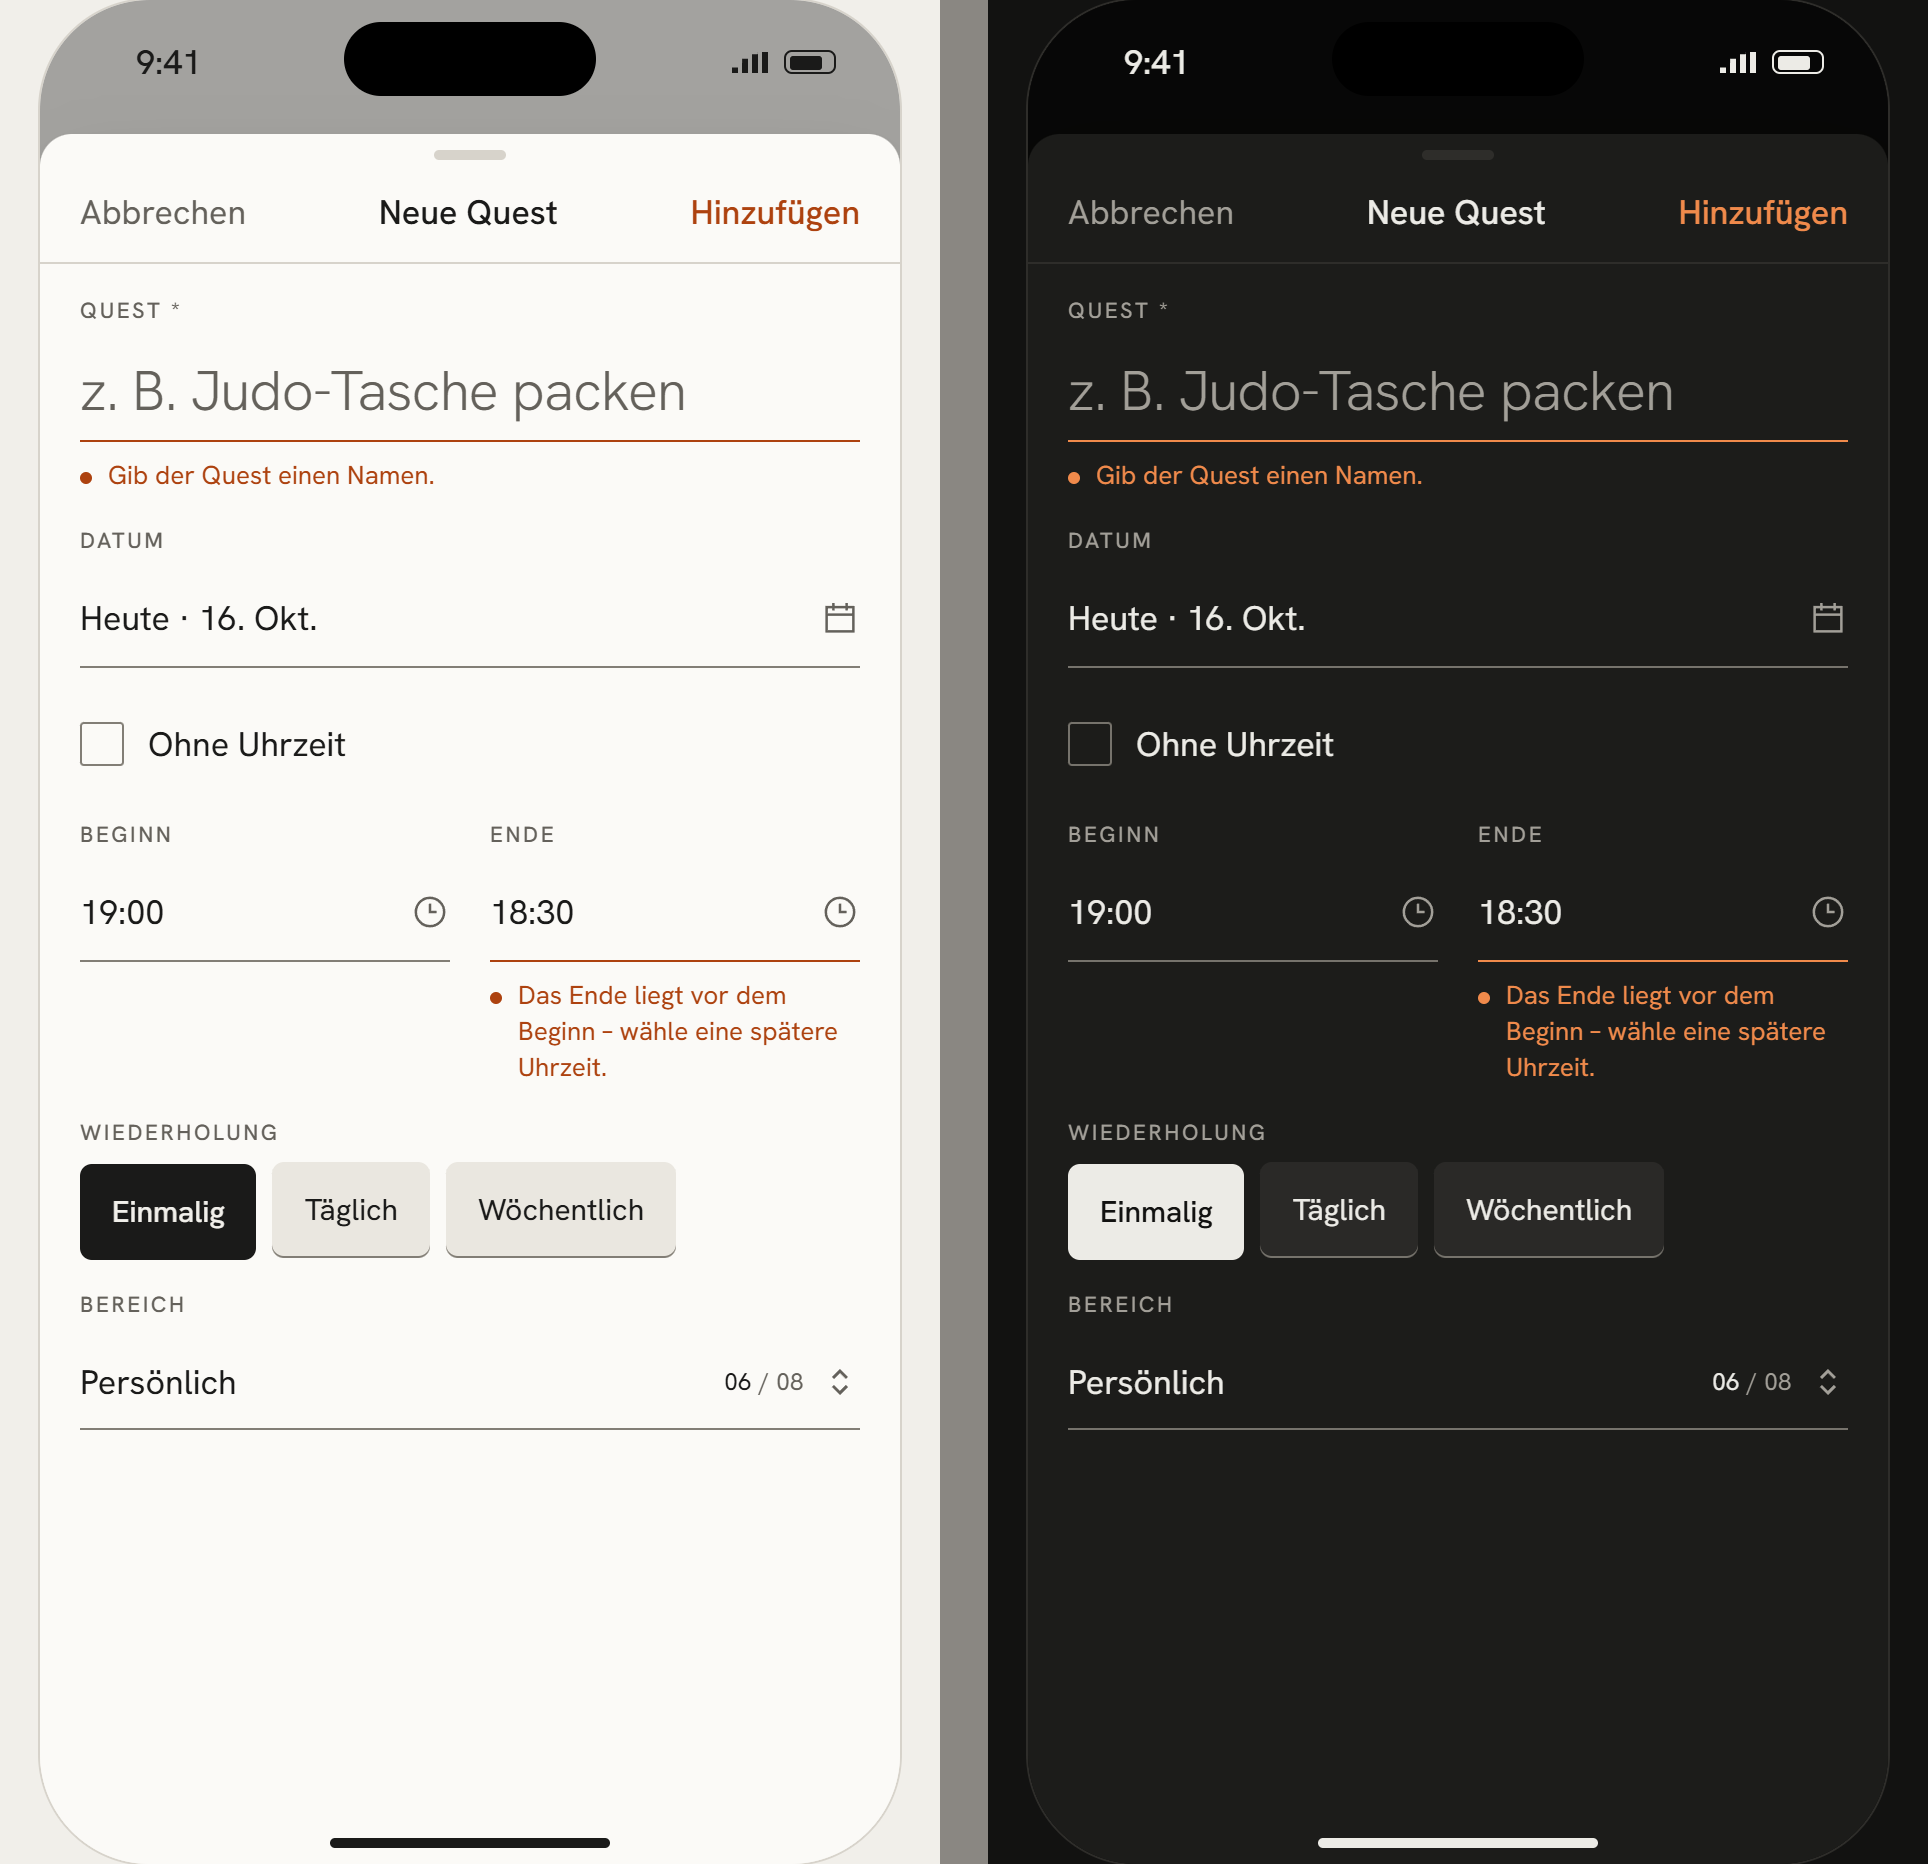
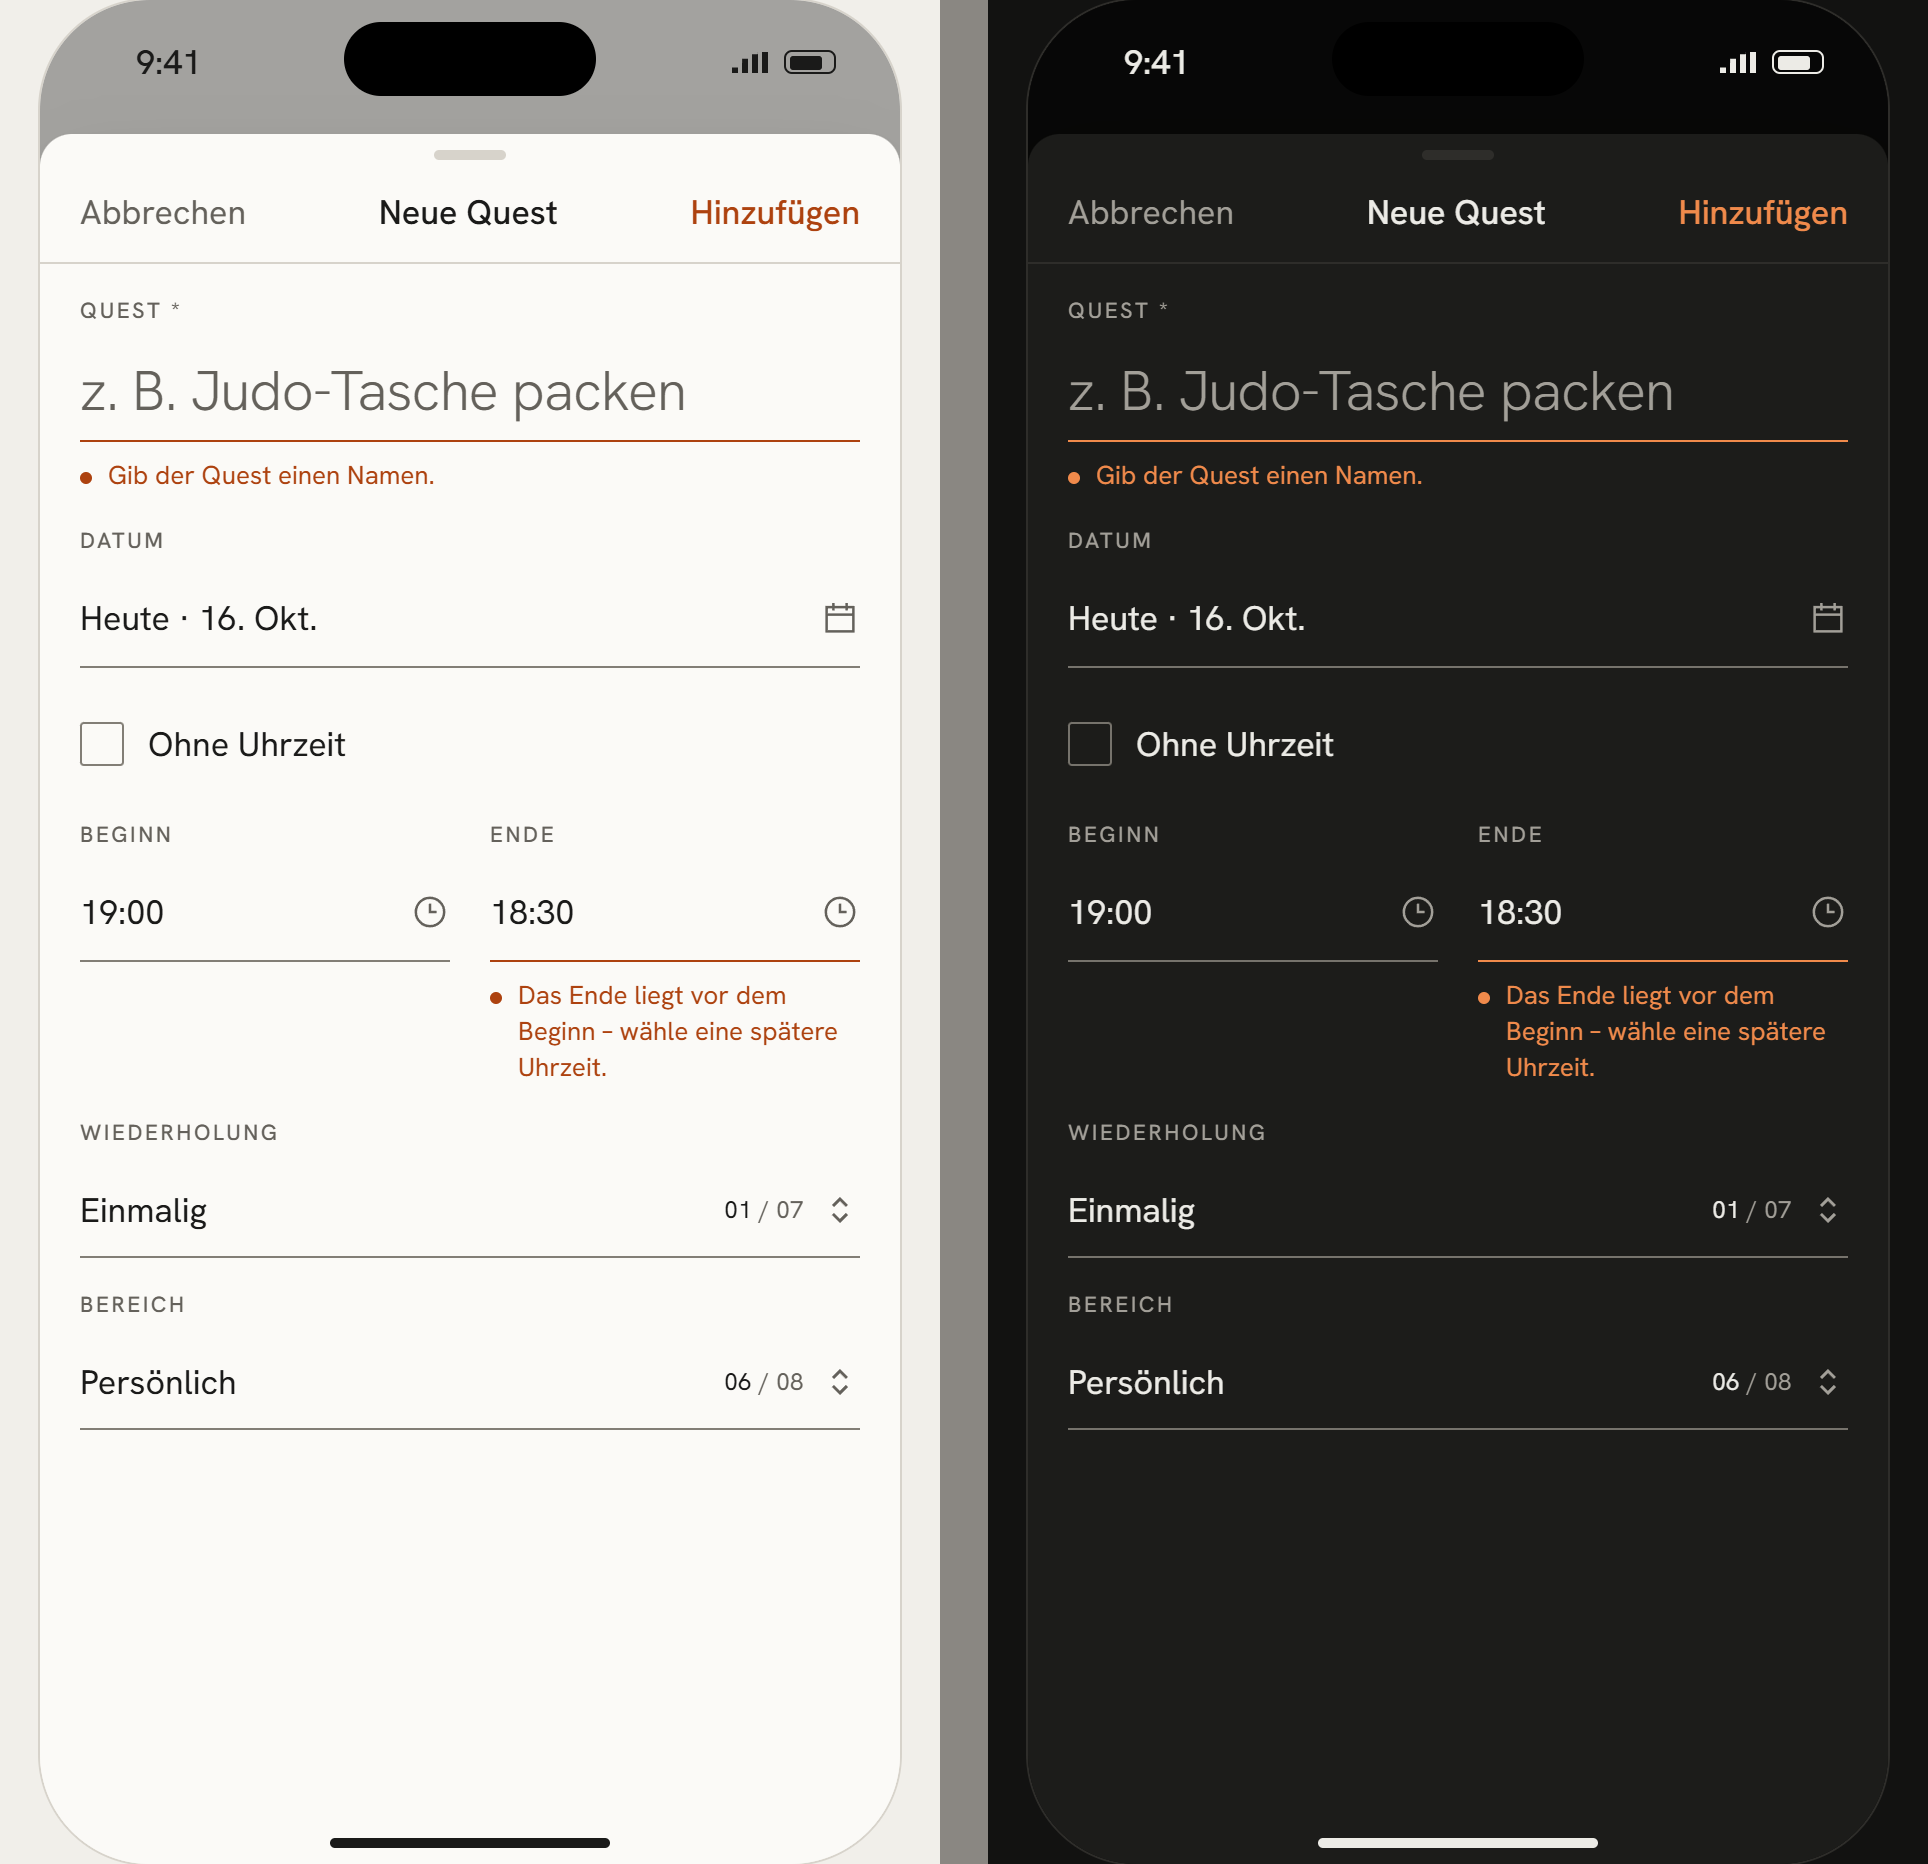
Neue Quest: Wiederholung als Auswahlfeld mit sieben Rhythmen
Werktags, alle zwei Wochen, monatlich, jährlich ergänzt; Wochentage nur bei
wöchentlich, Monat und Jahr nennen den Tag als Satz.

diff --git a/src/app/heute/NewQuestSheet.jsx b/src/app/heute/NewQuestSheet.jsx
@@ -7,6 +7,16 @@ import { S, dateLong, useNav } from '../shared.jsx';
 const { addDays, iso, parse } = N.utils;
 
 /* Neue Quest – Pflichtfeld und Zeitprüfung beim Hinzufügen; mit Eingaben fragt Abbrechen nach */
+/* Rhythmen einer Quest – das Auswahlfeld wächst mit, die Zeile bleibt eine */
+const REPEAT = [
+  { value: 'once', label: 'Einmalig' },
+  { value: 'daily', label: 'Täglich' },
+  { value: 'workdays', label: 'Werktags' },
+  { value: 'weekly', label: 'Wöchentlich' },
+  { value: 'biweekly', label: 'Alle zwei Wochen' },
+  { value: 'monthly', label: 'Monatlich' },
+  { value: 'yearly', label: 'Jährlich' },
+];
 function NewQuestSheet(props) {
   const nav = useNav();
   const s = demo.use();
@@ -21,6 +31,15 @@ function NewQuestSheet(props) {
   const cat = useState(props.category || 'personal');
   const tried = useState(!!props.invalid);
   const iDate = date[0] === 'today' ? t.date : date[0] === 'tomorrow' ? iso(addDays(parse(t.date), 1)) : date[0];
+  const D = parse(iDate);
+  const repHint =
+    rep[0] === 'monthly'
+      ? `Jeden Monat am ${D.getDate()}.`
+      : rep[0] === 'yearly'
+        ? `Jedes Jahr am ${D.toLocaleDateString('de-DE', { day: 'numeric', month: 'long' })}`
+        : rep[0] === 'workdays'
+          ? 'Montag bis Freitag'
+          : undefined;
   const errTitle = tried[0] && !title[0].trim() ? 'Gib der Quest einen Namen.' : null;
   const errTime =
     tried[0] && !noTime[0] && start[0] && end[0] && hmn(end[0]) <= hmn(start[0])
@@ -45,6 +64,7 @@ function NewQuestSheet(props) {
       time: noTime[0] ? null : start[0],
       end: noTime[0] ? null : end[0],
       repeat: rep[0],
+      days: rep[0] === 'weekly' || rep[0] === 'biweekly' ? days[0] : undefined,
       category: cat[0],
     });
     nav.close();
@@ -89,22 +109,11 @@ function NewQuestSheet(props) {
           </N.FieldRow>
         ) : null}
       </div>
-      <div className="nh-field">
-        <span className="nh-label">Wiederholung</span>
-        <N.ChoiceRow.Quick
-          label="Wiederholung"
-          value={rep[0]}
-          onChange={rep[1]}
-          options={[
-            { value: 'once', label: 'Einmalig' },
-            { value: 'daily', label: 'Täglich' },
-            { value: 'weekly', label: 'Wöchentlich' },
-          ]}
-        />
-        {rep[0] === 'weekly' ? (
-          <div style={{ marginTop: 'var(--space-3)' }}>
-            <N.WeekdayPicker value={days[0]} onChange={days[1]} />
-          </div>
+      {/* Wiederholung als Auswahlfeld: eine Zeile für beliebig viele Rhythmen; das Detail erscheint nur, wo es etwas zu wählen gibt */}
+      <div style={{ display: 'flex', flexDirection: 'column', gap: 'var(--space-3)' }}>
+        <N.Select label="Wiederholung" value={rep[0]} onChange={rep[1]} options={REPEAT} hint={repHint} />
+        {rep[0] === 'weekly' || rep[0] === 'biweekly' ? (
+          <N.WeekdayPicker label="An diesen Tagen" value={days[0]} onChange={days[1]} />
         ) : null}
       </div>
       <N.Select

diff --git a/src/data/demo.js b/src/data/demo.js
@@ -482,6 +482,15 @@ const WORKOUTS = {
   ],
 };
 
+const REPEAT_LABEL = {
+  daily: 'Täglich',
+  workdays: 'Werktags',
+  weekly: 'Wöchentlich',
+  biweekly: 'Alle zwei Wochen',
+  monthly: 'Monatlich',
+  yearly: 'Jährlich',
+};
+
 /* ---------- Speicher: eine Quelle, alle Screens hören mit ---------- */
 /* Ausgegeben je Geschenk und Wunsch kommt aus dem Ausgabenbuch (ref) – eine Quelle, gleiche Zahl in Leben, Fortschritt, Ausgaben */
 function withSpent(st) {
@@ -821,7 +830,7 @@ const act = {
         title: q.title,
         description:
           q.description ||
-          (q.repeat && q.repeat !== 'once' ? (q.repeat === 'daily' ? 'Täglich' : 'Wöchentlich') : 'Eigene Quest'),
+          (q.repeat && q.repeat !== 'once' ? REPEAT_LABEL[q.repeat] || 'Wiederkehrend' : 'Eigene Quest'),
         time: q.time || undefined,
         end: q.end || undefined,
         slot: q.time ? hmn(q.time) : 23,

diff --git a/docs/screens/Heute.md b/docs/screens/Heute.md
@@ -14,7 +14,7 @@ Mahlzeit als kompaktes Sheet: Energie groß und leicht, Makro-Balken nach Energi
 „Neue Quest“ nach einem Hinzufügen mit fehlendem Titel und Ende vor Beginn. Beide Fehler stehen am Feld (Linie und Satz in `danger`, LED, `role="alert"`), der Satz sagt, was zu tun ist. Hinzufügen bleibt wirkungslos und setzt den Fokus auf das erste fehlerhafte Feld, bis beides stimmt.
 
 # NeueQuestScreen
-Eigene Quest anlegen – die **+**-Taste im Kopf jedes Tabs bedeutet überall „Neue Quest“. Formular-Sheet „Abbrechen · Neue Quest · Hinzufügen“: Titel (Pflicht), Datum, „Ohne Uhrzeit“ oder Beginn und Ende, Wiederholung, Bereich.
+Eigene Quest anlegen – die **+**-Taste im Kopf jedes Tabs bedeutet überall „Neue Quest“. Formular-Sheet „Abbrechen · Neue Quest · Hinzufügen“: Titel (Pflicht), Datum, „Ohne Uhrzeit“ oder Beginn und Ende, Wiederholung als Auswahlfeld (Einmalig · Täglich · Werktags · Wöchentlich · Alle zwei Wochen · Monatlich · Jährlich) – Wochentage erscheinen nur bei wöchentlich, Monat und Jahr nennen den Tag als Satz –, Bereich.
 - Hinzufügen prüft: fehlender Titel, Ende vor Beginn. Der Fehler steht am Feld, der Fokus springt dorthin, das Sheet bleibt offen (`NeueQuestFehlerScreen`).
 - Mit Eingaben fragt Abbrechen nach (`dirty`). Nach dem Hinzufügen steht die Quest in Heute, im Kalender und im Fortschritt; ein Toast bestätigt.
 
